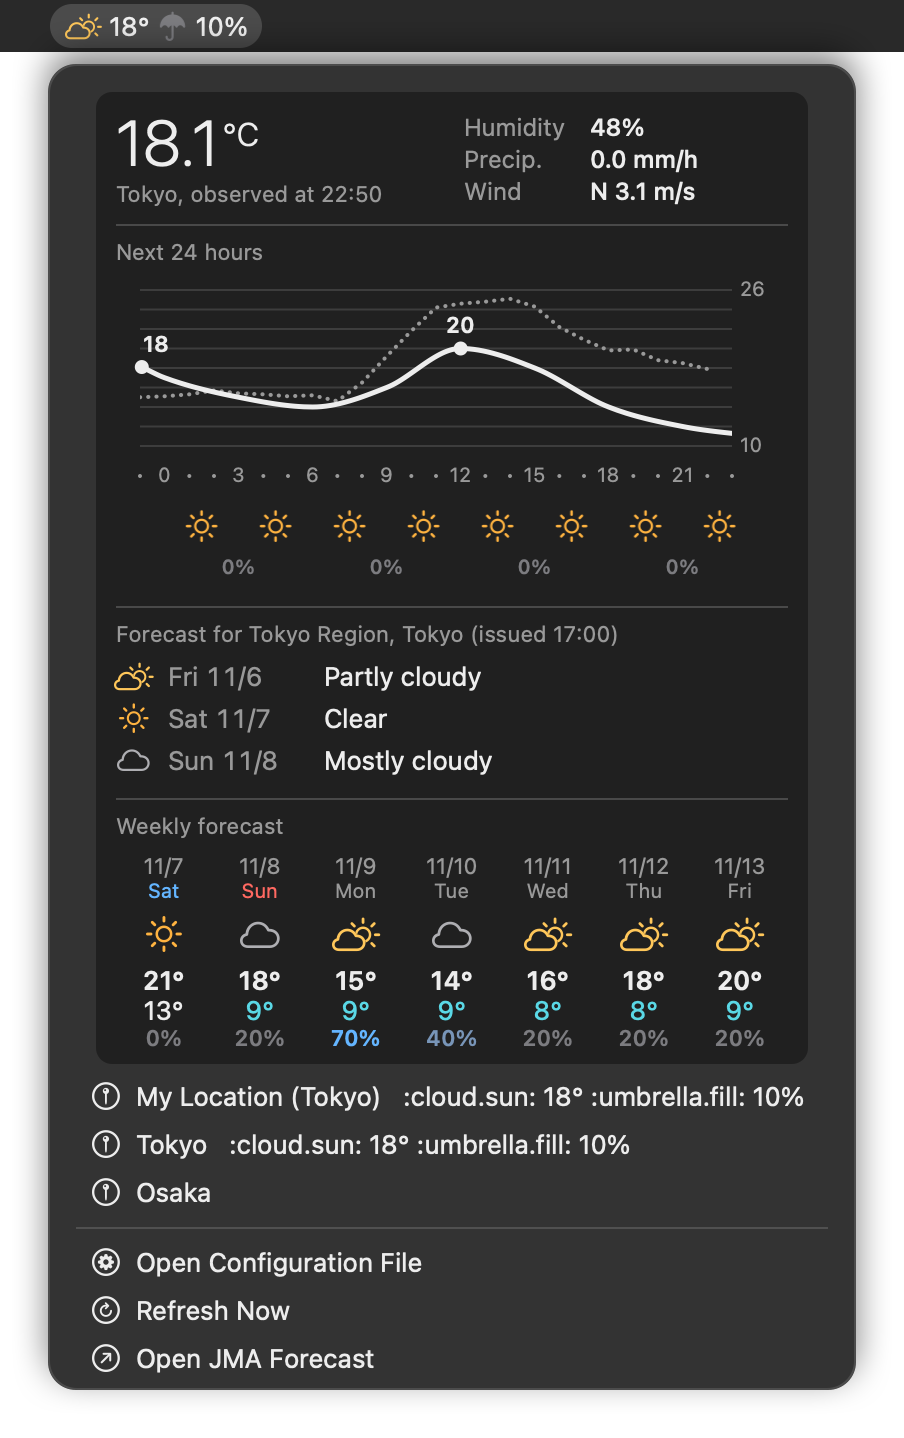
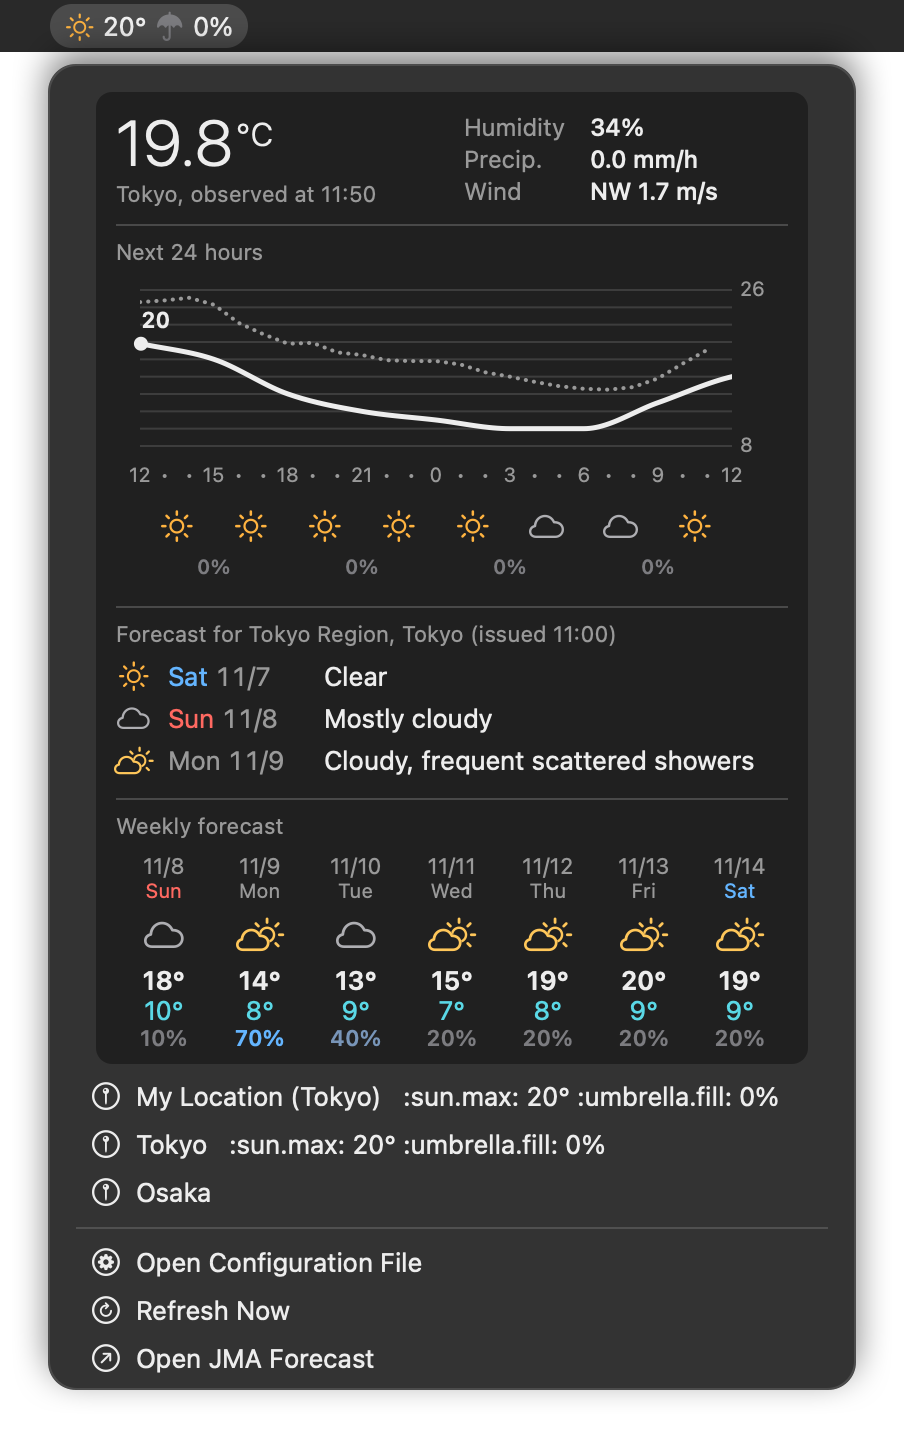
weather: 3 日分の予報の曜日も、土曜は青、日曜は赤にする (v1.1.5) (#15)
* weather: 3 日分の予報の曜日も、土曜は青、日曜は赤にする

週間予報と同じく、曜日の部分だけに色を付ける (日付は控えめな文字色のまま)。
色の選び方は CardColors.weekday にまとめ、2 つの節で同じものを使う。

日付と曜日は、色の違う文字列をつないだ 1 つの文字列として描く
(drawCardText に色ごとの文字列を渡す形を足した)。別々に描くと、2 つめが
「（」で始まるので行頭の括弧として扱われ、日付との間の空きが詰められた。

* README の天気の画像を描き直す

* v1.1.5 とする

---------

diff --git a/Sources/weather/WeatherCard.swift b/Sources/weather/WeatherCard.swift
@@ -110,10 +110,13 @@ struct WeatherCard {
         var y = top + headerHeight
         for (day, rowHeight) in zip(input.days, dayRowHeights) {
             pen.symbol(day.icon, color: colors.color(day.color), cx: pad + 9, cy: y + 8, size: 14)
-            let weekday = weekdayName(day.dow)
+            // 週間予報と同じく、曜日だけを土曜は青、日曜は赤にする。
             // 日付は縦に並ぶので、等幅の数字で桁をそろえる
-            pen.text(L("\(day.date)（\(weekday)）", "\(weekday) \(day.date)"), x: pad + 26, y: y, size: 13,
-                     color: colors.secondary, digits: .tabular)
+            let weekday = weekdayName(day.dow)
+            let pieces = isJapanese
+                ? [(day.date, colors.secondary), ("（\(weekday)）", colors.weekday(day.dow))]
+                : [(weekday, colors.weekday(day.dow)), (" \(day.date)", colors.secondary)]
+            pen.text(pieces, x: pad + 26, y: y, size: 13, digits: .tabular)
             pen.wrappedText(Typesetting.forecastPhrases(day.text), x: dayTextX, y: y, width: dayTextWidth, size: 13)
             y += rowHeight
         }
@@ -128,15 +131,10 @@ struct WeatherCard {
         let y = top + headerHeight
         for (i, day) in input.week.enumerated() {
             let cx = pad + columnWidth * (CGFloat(i) + 0.5)
-            // 土曜は青、日曜は赤
-            let weekdayColor = switch day.dow {
-            case 6: colors.blue
-            case 0: colors.red
-            default: colors.secondary
-            }
             let weekday = weekdayName(day.dow)
             pen.text(day.date, x: cx, y: y, size: 11, color: colors.secondary, align: .center)
-            pen.text(L("（\(weekday)）", weekday), x: cx, y: y + 13, size: 10, color: weekdayColor, align: .center)
+            pen.text(L("（\(weekday)）", weekday), x: cx, y: y + 13, size: 10, color: colors.weekday(day.dow),
+                     align: .center)
             pen.symbol(day.icon, color: colors.color(day.color), cx: cx, cy: y + 41, size: 17)
             pen.text(day.max.isEmpty ? "-" : "\(day.max)°", x: cx, y: y + 56, size: 13,
                      color: colors.color(day.maxColor), weight: .semibold, align: .center)

diff --git a/Sources/Shared/Typography.swift b/Sources/Shared/Typography.swift
@@ -37,11 +37,23 @@ public extension NSFont {
 @discardableResult
 public func drawCardText(_ string: String, x: CGFloat, y: CGFloat, font: NSFont, color: NSColor,
                          align: NSTextAlignment = .left, maxWidth: CGFloat? = nil) -> CGSize {
+    drawCardText([(string, color)], x: x, y: y, font: font, align: align, maxWidth: maxWidth)
+}
+
+/// 色の違う文字列をつないで 1 行に描く。1 つの文字列として組むので、つなぎ目の字の
+/// 間隔は 1 色で描いたときと同じになる (別々に描くと、2 つめが「（」で始まるときに
+/// 行頭の括弧として前の空きが詰められる)。
+@discardableResult
+public func drawCardText(_ pieces: [(String, NSColor)], x: CGFloat, y: CGFloat, font: NSFont,
+                         align: NSTextAlignment = .left, maxWidth: CGFloat? = nil) -> CGSize {
     let style = NSMutableParagraphStyle()
     style.lineBreakMode = .byTruncatingTail
-    let text = NSAttributedString(string: string, attributes: [
-        .font: font, .foregroundColor: color, .paragraphStyle: style,
-    ])
+    let text = NSMutableAttributedString()
+    for (string, color) in pieces {
+        text.append(NSAttributedString(string: string, attributes: [
+            .font: font, .foregroundColor: color, .paragraphStyle: style,
+        ]))
+    }
     var textSize = text.size()
     if let maxWidth { textSize.width = min(textSize.width, maxWidth) }
     let dx: CGFloat = switch align {

diff --git a/Sources/weather/WeatherPen.swift b/Sources/weather/WeatherPen.swift
@@ -28,6 +28,15 @@ struct CardColors {
     /// 日曜日の赤
     var red: NSColor { NSColor(hex: dark ? "#FF6961" : "#A3000F")! }
 
+    /// 曜日の文字の色。土曜は青、日曜は赤、ほかは控えめな文字色 (0 が日曜)
+    func weekday(_ dayOfWeek: Int) -> NSColor {
+        switch (dayOfWeek % 7 + 7) % 7 {
+        case 6: blue
+        case 0: red
+        default: secondary
+        }
+    }
+
     /// WeatherStyle で選んだ色。無ければ (空文字列や null なら) 標準の文字色
     func color(_ hex: String?) -> NSColor {
         NSColor(hex: hex) ?? primary
@@ -47,6 +56,13 @@ struct WeatherPen {
               align: NSTextAlignment = .left) -> CGSize {
         drawCardText(string, x: x, y: y, font: .card(size: size, weight: weight, digits: digits),
                      color: color ?? colors.primary, align: align)
+    }
+
+    /// 色の違う文字列をつないで 1 行に描く (Typography.swift の drawCardText)
+    @discardableResult
+    func text(_ pieces: [(String, NSColor)], x: CGFloat, y: CGFloat, size: CGFloat,
+              digits: Digits = .proportional) -> CGSize {
+        drawCardText(pieces, x: x, y: y, font: .card(size: size, digits: digits))
     }
 
     /// 幅を決めて折り返して描く文。高さは `Self.wrappedTextHeight` で測れる。
